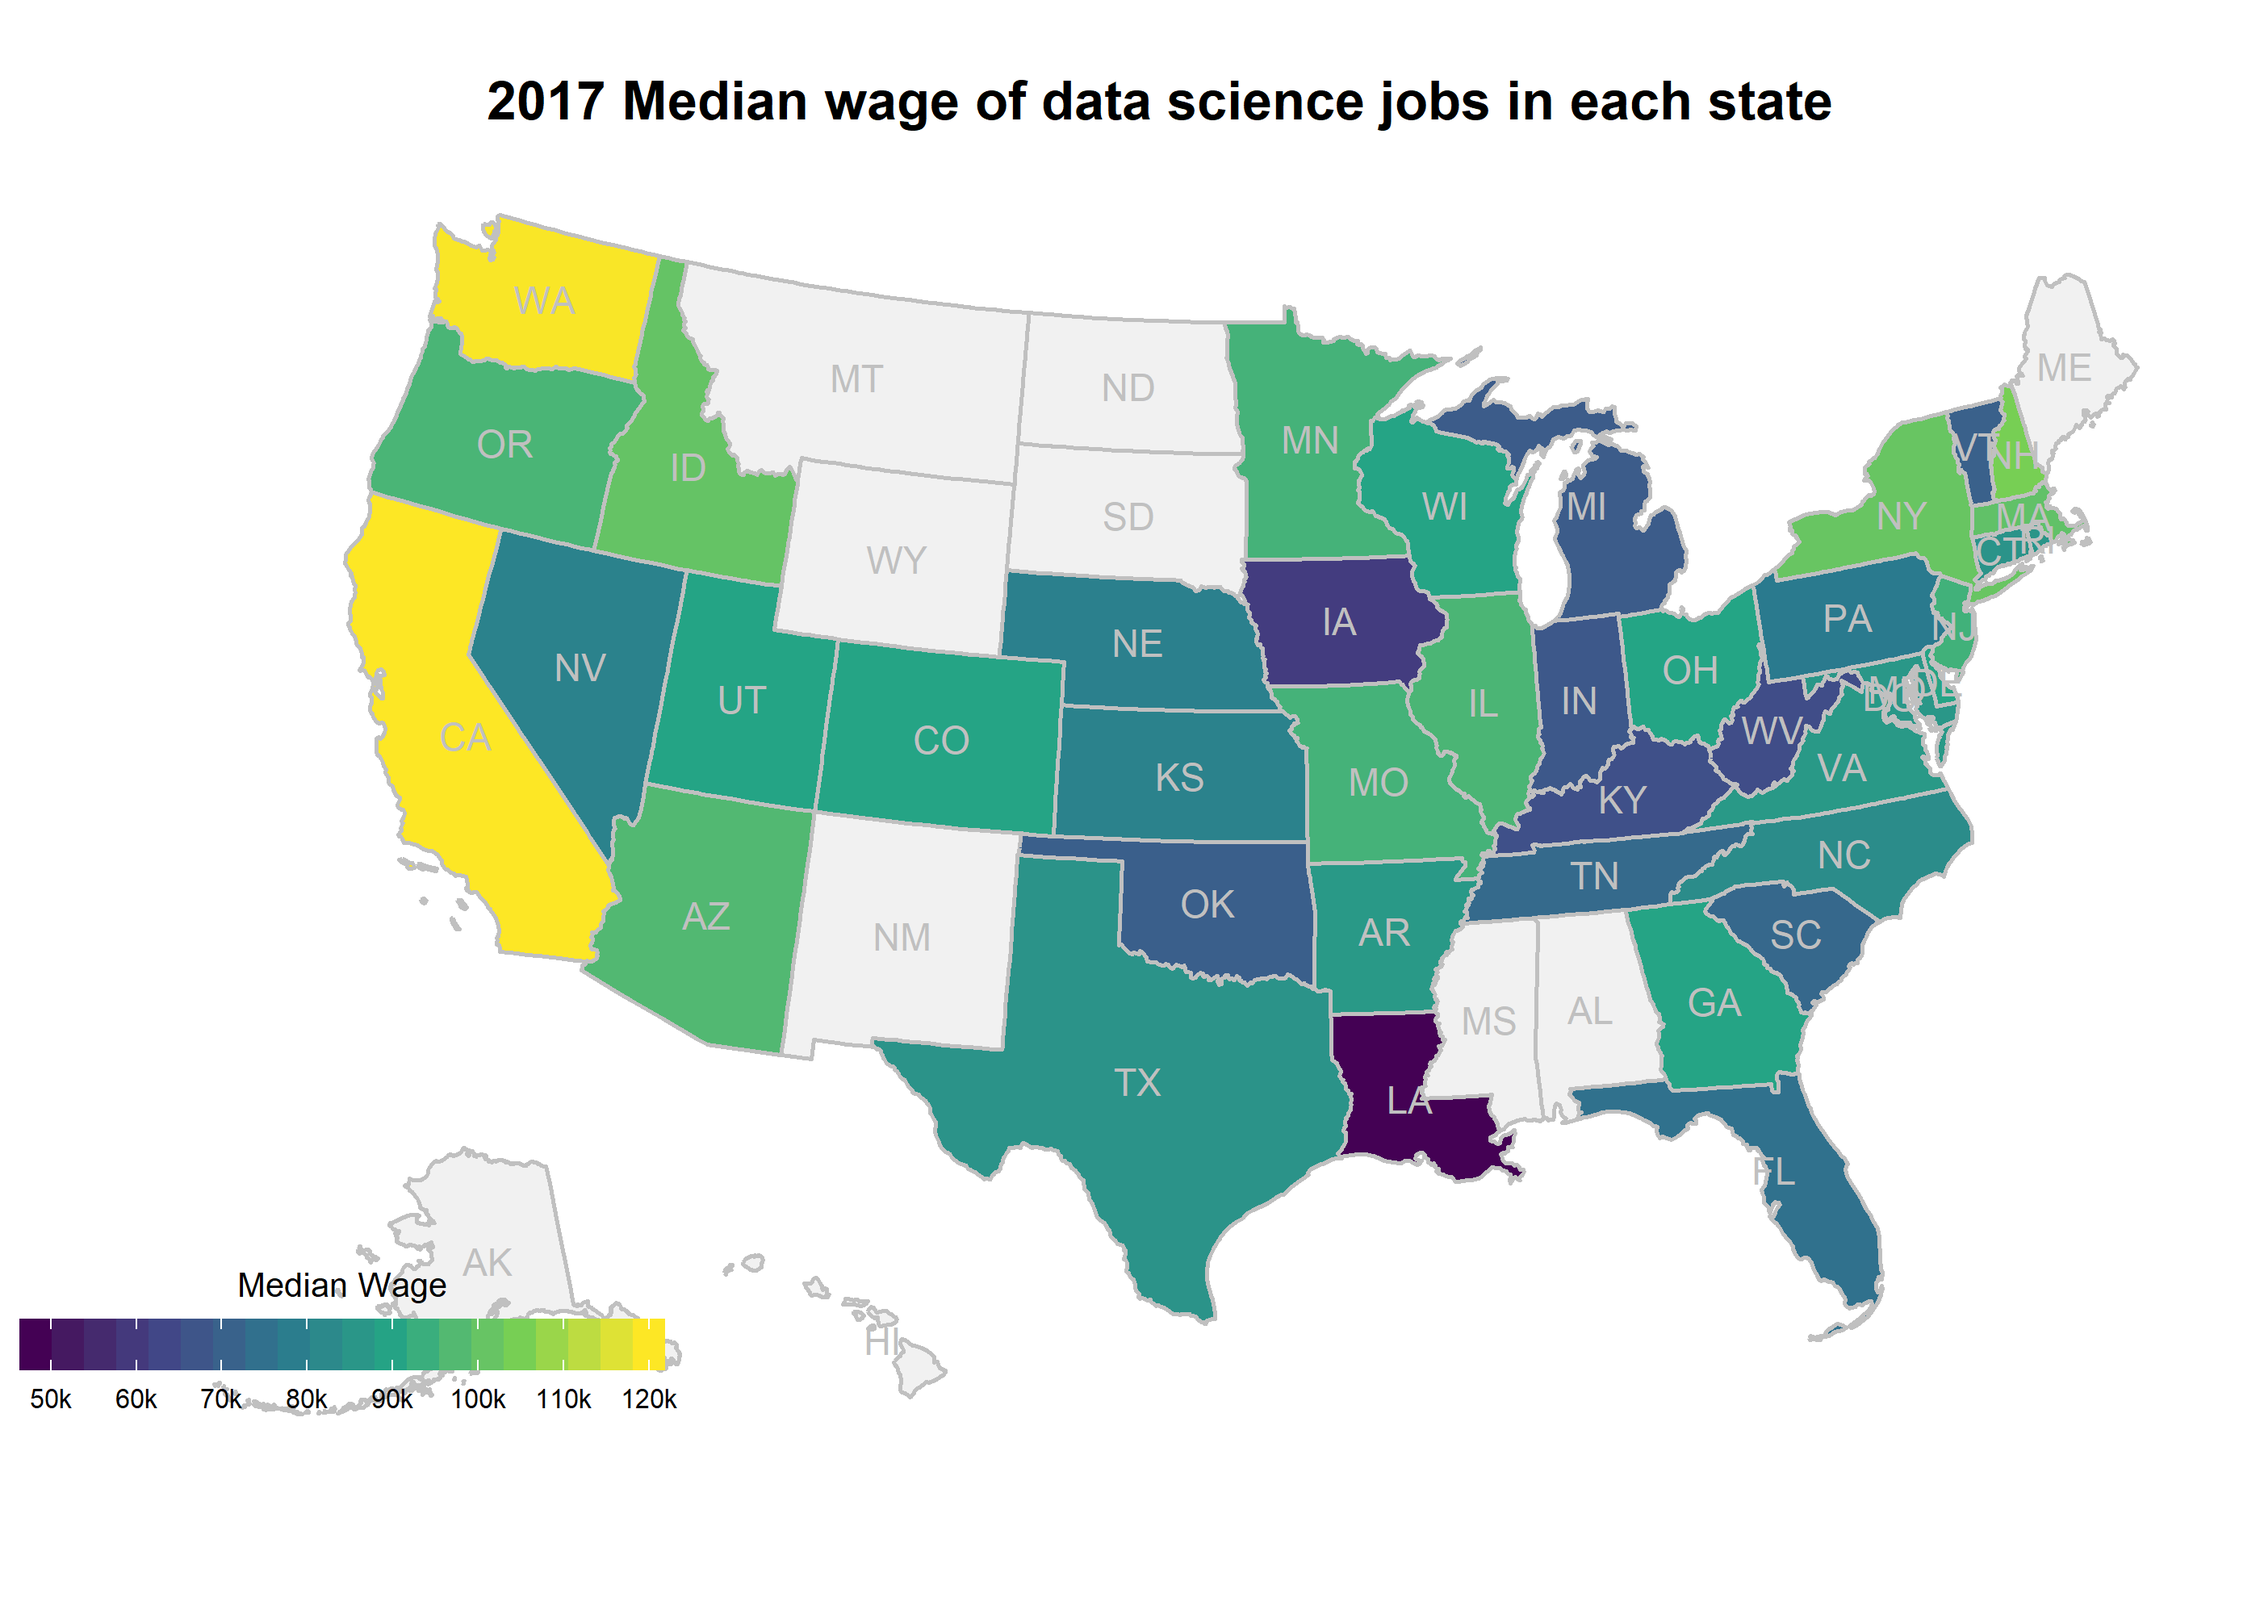
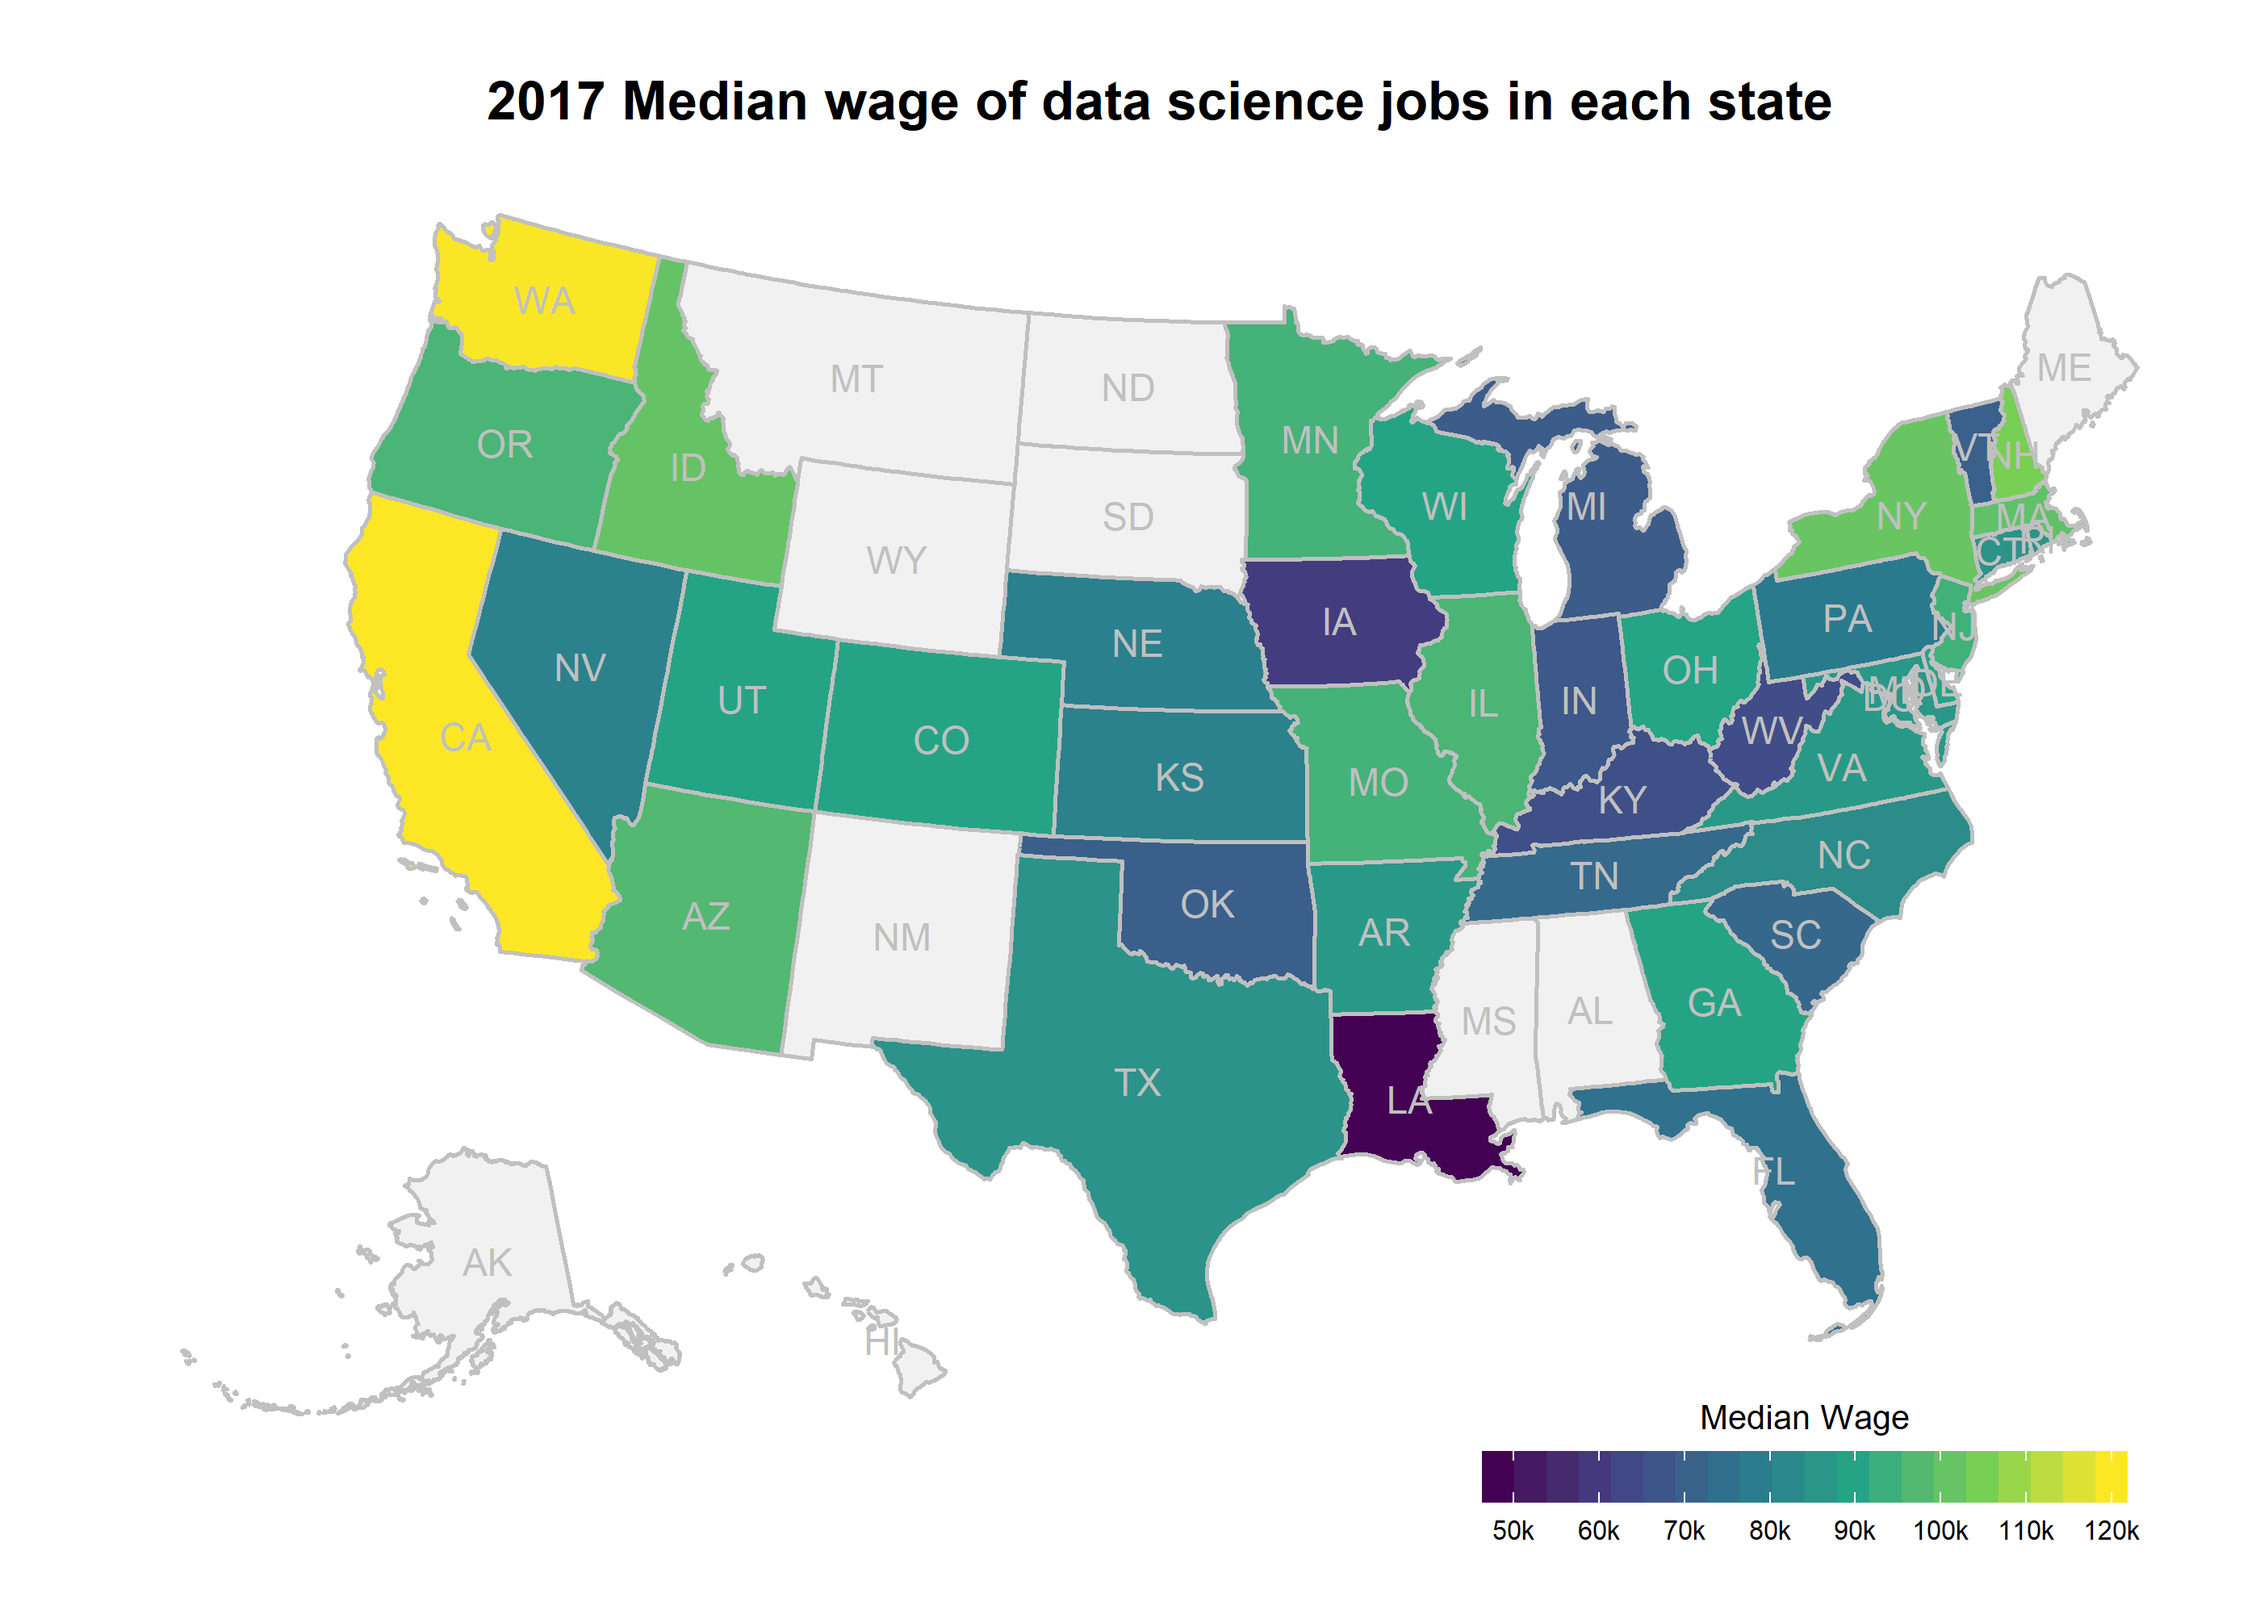
legend position adjustment

Changed region(s): [[0.0, 0.775, 0.3107, 0.868], [0.6525, 0.868, 0.9632, 0.961]]

diff --git a/h1b_data/h1b_data.md b/h1b_data/h1b_data.md
@@ -252,7 +252,7 @@ state %>%
     )
   ) +
   theme(
-    legend.position = c(.12, .1),
+    legend.position = c(.8, 0),
     plot.title = element_text(size = 12, face = "bold", hjust = .5),
     plot.subtitle = element_text(size = 8, hjust = .5),
     rect = element_blank()
